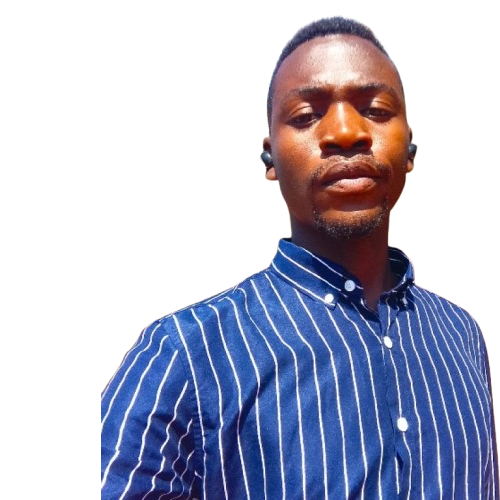
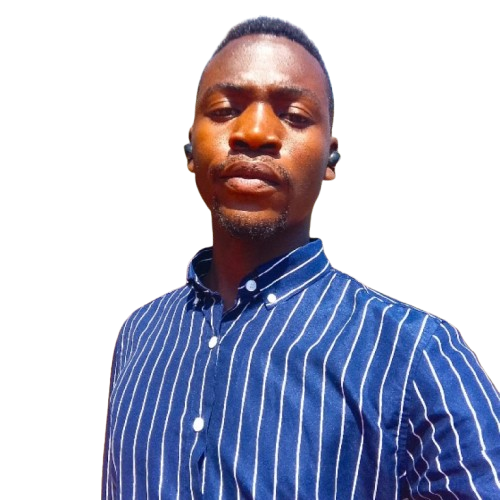
Revert hero portrait flip; nudge portrait up-left

diff --git a/src/components/Hero.tsx b/src/components/Hero.tsx
@@ -29,7 +29,7 @@ export function Hero() {
         </span>
 
         <div className="relative m-auto w-full max-w-6xl px-5 py-10 sm:px-8 sm:py-12">
-          <div className="lg:grid lg:grid-cols-[1.2fr_0.8fr] lg:items-center lg:gap-6">
+          <div className="lg:grid lg:grid-cols-[1.3fr_0.7fr] lg:items-start lg:gap-6">
             <div>
               <Reveal>
                 <p className="font-mono text-sm text-muted-foreground sm:text-base">Hello, I'm</p>
@@ -105,7 +105,7 @@ export function Hero() {
                 <img
                   src="/profile.png"
                   alt="Misheck Champopa"
-                  className="relative z-10 block h-60 w-60 object-contain sm:h-80 sm:w-80 lg:h-full lg:w-auto lg:translate-x-12"
+                  className="relative z-10 block h-60 w-60 object-contain sm:h-80 sm:w-80 lg:h-full lg:w-auto lg:translate-x-6"
                 />
               </div>
             </div>
